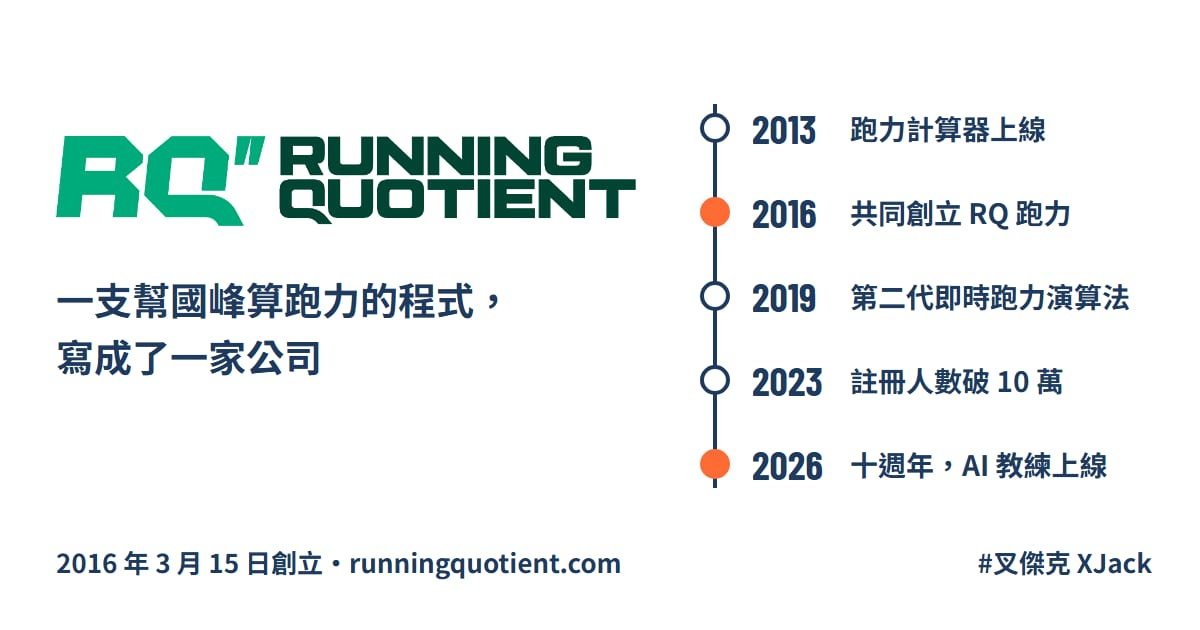
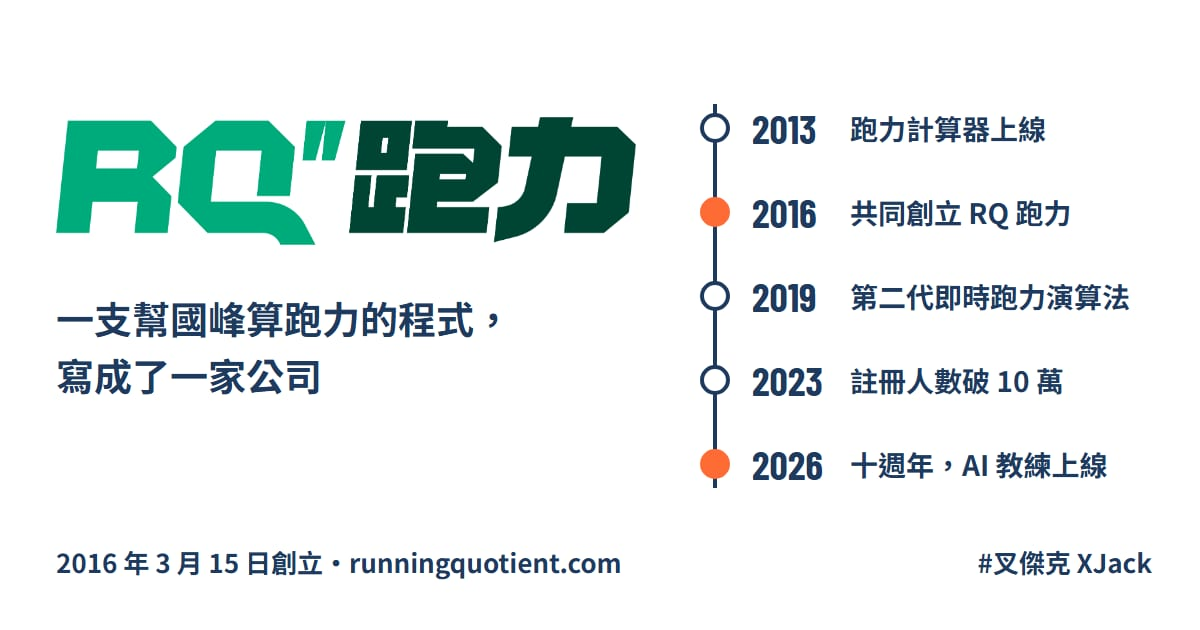
裝備欄：RQ 跑力圖卡改用中文標準標誌組合
改用 2022 品牌重塑的「RQ"跑力」中文彩色版，取代上一版的英文橫式 LOGO。

Changed region(s): [[0.0308, 0.181, 0.555, 0.3921], [0.0308, 0.4524, 0.4317, 0.6333]]

diff --git a/src/data/projects.ts b/src/data/projects.ts
@@ -36,7 +36,7 @@ export const projects: Project[] = [
     flavor: '當年只是想幫國峰寫個程式算跑力，沒想到寫成一家公司。',
     url: 'https://www.runningquotient.com/',
     urlLabel: '前往 RQ 跑力',
-    // 預覽圖：自己做的圖卡，LOGO 是 RQ repo 的 2022 橫式彩色版（web/img/logo/rqlogolong2022.png），時間軸五件事都出自 milestones.ts（官網首頁是素材照片配註冊鈕，像廣告所以不用）
+    // 預覽圖：自己做的圖卡，LOGO 是 2022 品牌重塑的「中文標準標誌組合_彩色版1」（雲端 2022品牌重塑／VI最終版本檔案／VI-1212_最終版本／png，裁掉留白），時間軸五件事都出自 milestones.ts（官網首頁是素材照片配註冊鈕，像廣告所以不用）
     image: '/images/projects/rq.jpg',
     imageAlt: 'RQ 跑力圖卡：2013 跑力計算器上線、2016 共同創立、2019 第二代即時跑力、2023 註冊破 10 萬、2026 十週年',
     featured: true,
